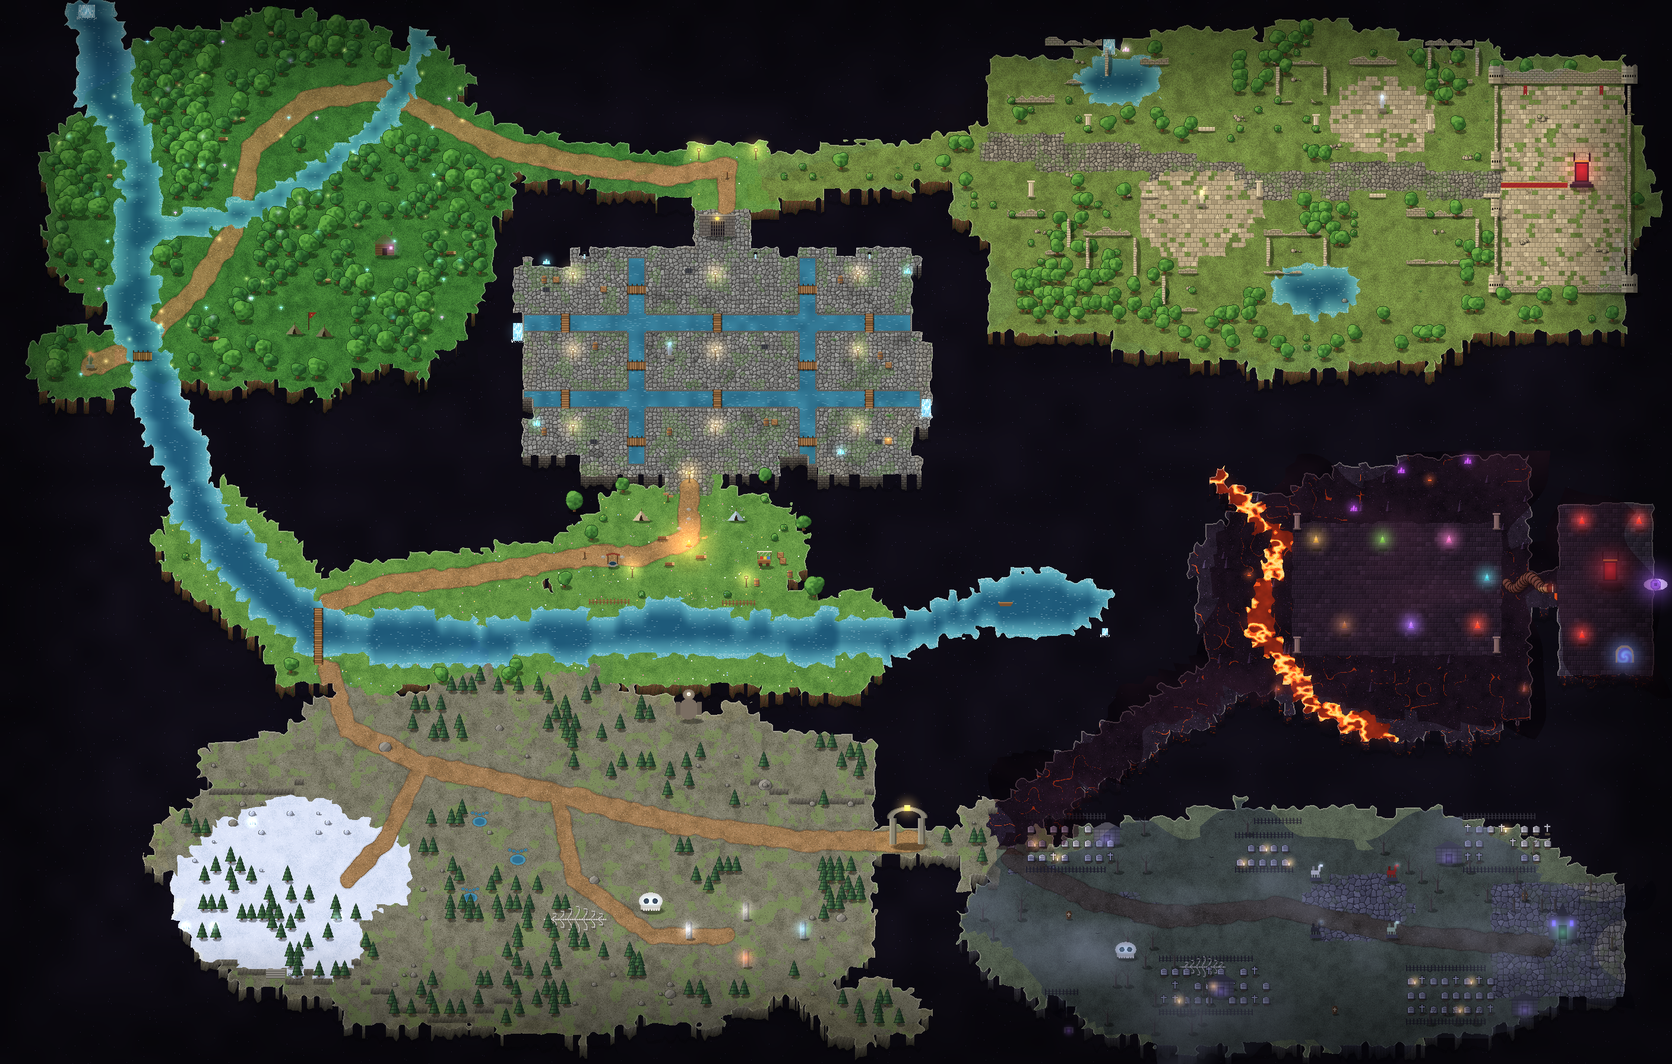
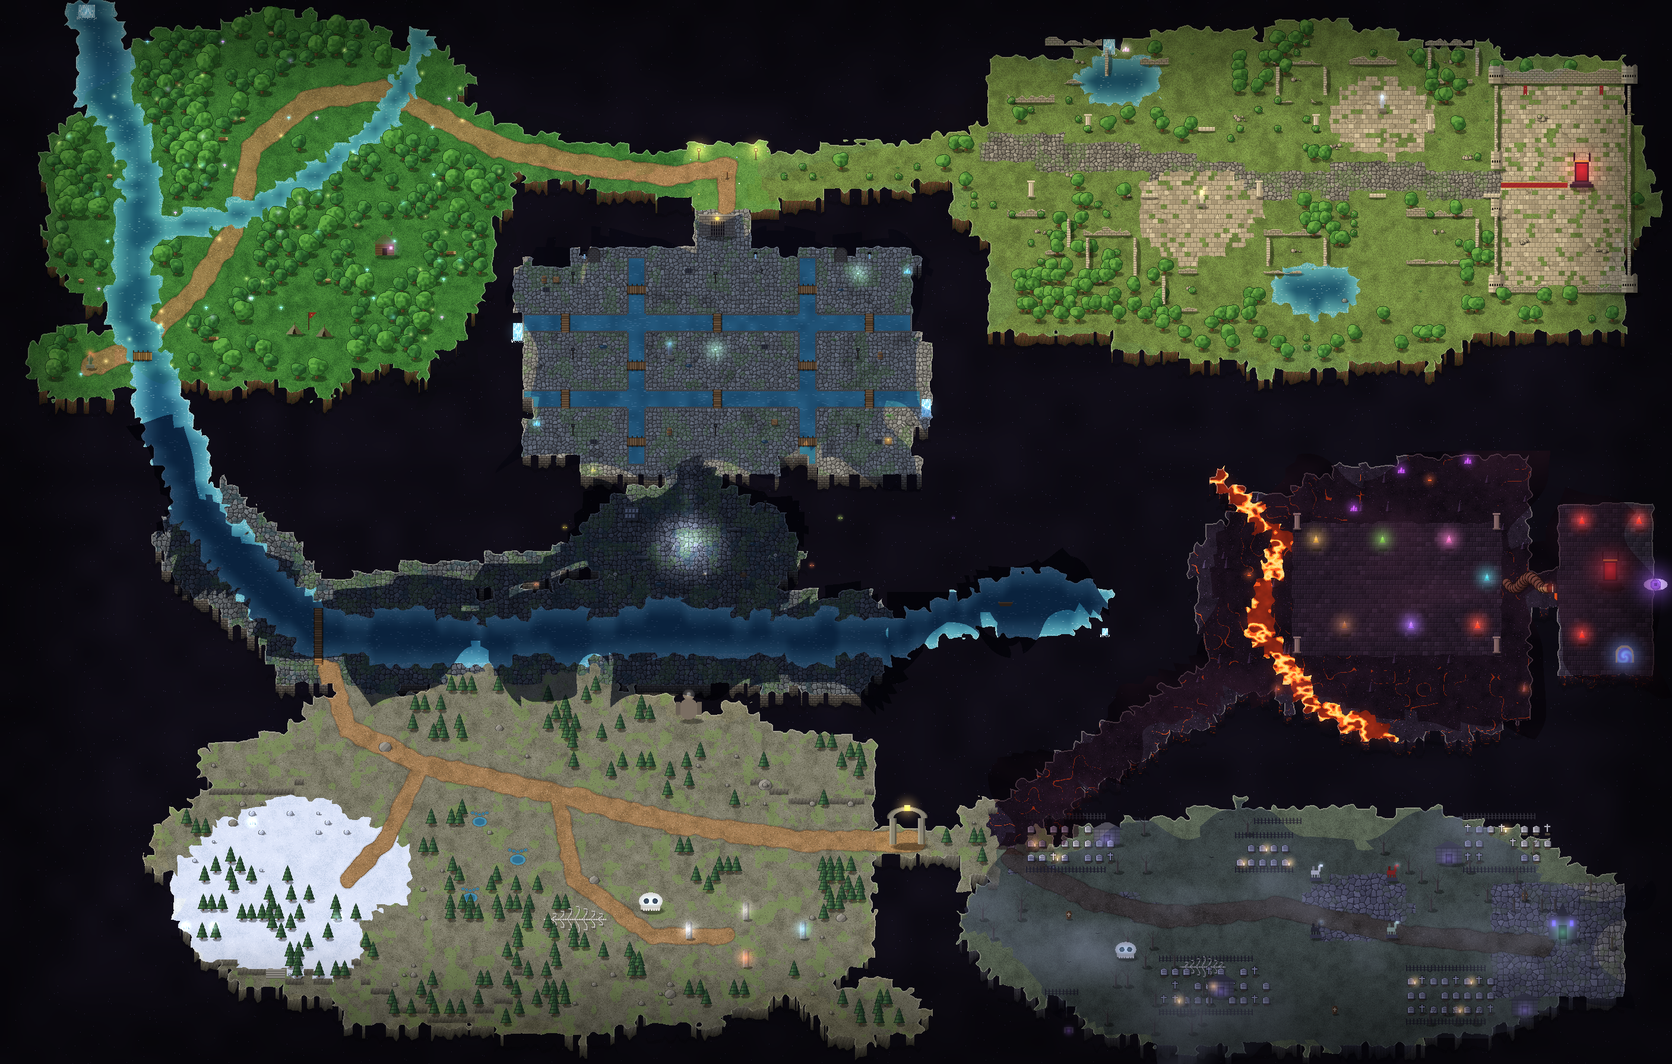
맵 시안 — 첫 공간을 무너진 천장 아래 어두운 방으로 (빛 한 줄 · 어둠 속 눈 · 두고 간 물건들), 1격 지하수로는 등이 거의 꺼진 어둡고 축축한 곳으로, 첫 공간 밑 물길 · 호수도 같은 어둠

Changed region(s): [[0.0625, 0.1875, 0.6562, 0.6562]]

diff --git a/design/map-concept/render.js b/design/map-concept/render.js
@@ -43,6 +43,7 @@ const fbm = (x, y, s = 0) => vnoise(x, y, s) * 0.55 + vnoise(x * 2.1, y * 2.1, s
 const base = new Float32Array(PW * PH * 3);
 const emis = new Uint8Array(PW * PH);              // 스스로 빛나는 픽셀 (용암) — 어두운 격에서도 안 어두워짐
 const glowBuf = new Float32Array(PW * PH * 3);
+const lightBuf = new Float32Array(PW * PH);         // 어둠을 걷어 내는 빛 (곱하는 빛 — 더하는 glow 와 달리 색이 바래지 않음)
 function put(x, y, c, a = 1) {
   x |= 0; y |= 0;
   if (x < 0 || y < 0 || x >= PW || y >= PH) return;
@@ -72,6 +73,13 @@ function shadow(cx, cy, rx, ry, f = 0.62) {
 function line(x0, y0, x1, y1, c, a = 1) {
   const n = Math.max(Math.abs(x1 - x0), Math.abs(y1 - y0), 1);
   for (let k = 0; k <= n; k++) put(Math.round(x0 + (x1 - x0) * k / n), Math.round(y0 + (y1 - y0) * k / n), c, a);
+}
+function lightUp(cx, cy, r, s) {
+  for (let y = Math.floor(cy - r); y <= cy + r; y++) for (let x = Math.floor(cx - r); x <= cx + r; x++) {
+    if (x < 0 || y < 0 || x >= PW || y >= PH) continue;
+    const d = Math.hypot(x + 0.5 - cx, (y + 0.5 - cy) * 1.25) / r;
+    if (d < 1) lightBuf[y * PW + x] += sm(1 - d) * s;
+  }
 }
 function glow(cx, cy, r, c, s = 1) {
   for (let y = Math.floor(cy - r); y <= cy + r; y++) for (let x = Math.floor(cx - r); x <= cx + r; x++) {
@@ -141,7 +149,7 @@ function trail(pts, width, b) {
 // 강 — 숲 북서쪽 폭포에서 내려와, 숲을 나서면 어두운 협곡 사이로만 흐르다가(둑 없음 — 숲과 첫 공간이 이어지지 않게)
 // 첫 공간 남쪽에서 강가 풀밭이 되고, 동쪽 끝 호수에서 어둠 속으로 떨어집니다. 호수 둘레도 어둠이라 강 양쪽이 이어지지 않습니다.
 const RIVER = [[9, 1], [11, 9], [15, 20], [13, 31], [17, 44], [22, 56], [32, 66], [50, 67], [70, 66], [88, 67], [100, 65]];
-road(RIVER.slice(5, 10), 11, GRASS, 0, 0, 1.2, 5);
+road(RIVER.slice(5, 10), 11, COBBLE, 7, 0, 1.2, 5);          // 물길 양옆은 젖은 돌둑 (첫 공간 쪽은 지하수로의 맨 밑)
 // 2격 이끼 낀 숲길 (북서)
 blob(29, 21, 25, 20, GRASS, 2, 0, 0.3, 11);
 blob(8, 38, 6, 4, GRASS, 2, 0, 0.3, 27);          // 트롤 킹의 굴 — 숲길 끝, 다리 건너 서쪽 강둑
@@ -154,10 +162,10 @@ road([[70, 18], [62, 17], [52, 15], [46, 12]], 5, GRASS, 2, 0, 0.6);
 road([[82, 18], [92, 17], [104, 15]], 5, GRASS, 3, 0, 0.6);
 // 1격 초심자의 지하수로 — 어둠 위에 떠 있는 돌 구역. 수로가 가로세로로 가르는 아홉 구역
 box(54, 26, 97, 49, COBBLE, 1, 0);
-// 첫 공간 — 모닥불 야영지
-blob(72, 57, 12, 7, GRASS, 0, 0, 0.3, 14);
+// 첫 공간 — 지하수로 맨 밑, 무너진 천장 아래의 둥근 방. 빛은 위에서 떨어지는 한 줄뿐
+blob(72, 57, 11, 7, COBBLE, 7, 0, 0.3, 14);
 // 첫 공간에서 서쪽으로 — 어둠 위 능선길을 따라 강가로, 다리 건너 4격
-road([[61, 58], [50, 60], [40, 61], [34, 63]], 5, GRASS, 0, 0, 0.7);
+road([[61, 58], [50, 60], [40, 61], [34, 63]], 3.5, COBBLE, 7, 0, 0.6);   // 어둠 위로 난 좁은 돌턱 — 물가 다리까지
 // 4격 거인의 고개 — 강 남쪽 고원. 서쪽은 눈 덮인 봉우리(더 높은 단)
 blob(56, 90, 42, 19, ROCKY, 4, 1, 0.3, 15);
 blob(30, 93, 13, 9, SNOW, 4, 2, 0.35, 16);
@@ -182,12 +190,14 @@ road(RIVER, 5, WATER, undefined, 0, 0.9, 6);
 blob(108, 63, 8, 3.5, WATER, 0, 0, 0.35, 22);
 // 숲 속 작은 시내 (강으로 합류)
 road([[44, 4], [40, 12], [33, 18], [25, 22], [16, 24]], 2.2, WATER, 2, 0, 0.5, 7);
+// 숲을 나선 뒤의 물(협곡 · 첫 공간 밑 물길 · 호수)은 땅 밑 — 첫 공간과 같은 어둠
+for (let y = 45; y < 76; y++) for (let x = 0; x < 124; x++) if (ter[idx(x, y)] === WATER) bio[idx(x, y)] = 7;
 
 // ---- 1격 수로 — 가로 둘, 세로 둘 (폭 2). 바깥 둘레는 돌 테두리 ----
 for (let x = 55; x <= 96; x++) for (const y of [33, 34, 41, 42]) paint(x, y, CANAL, 1);
 for (let y = 27; y <= 48; y++) for (const x of [66, 67, 84, 85]) paint(x, y, CANAL, 1);
 // 첫 공간 → 지하수로 남쪽 들머리 계단, 지하수로 북쪽 → 1격 보스(던전 가디언)의 수문 → 갈림목
-box(70, 49, 74, 51, COBBLE, 0, 0);
+box(70, 49, 74, 51, COBBLE, 7, 0);
 box(73, 22, 78, 26, COBBLE, 1, 0);
 // 지하수로 둘레는 군데군데 무너져 — 반듯한 네모가 아니게 (수문 · 들머리 계단 쪽은 남김)
 for (let y = 26; y <= 49; y++) for (let x = 54; x <= 97; x++) {
@@ -197,8 +207,7 @@ for (let y = 26; y <= 49; y++) for (let x = 54; x <= 97; x++) {
 }
 
 // ---- 길 (흙 — 픽셀로 그림) ----
-trail([[72, 51], [72, 56], [67, 58], [61, 58]], 2.2, 0);
-trail([[61, 58], [50, 60], [40, 61], [34, 63]], 2, 0);
+// (첫 공간 · 돌턱에는 흙길이 없음 — 젖은 돌뿐)
 trail([[76, 21], [76, 17], [70, 18]], 2, 0);
 trail([[70, 18], [62, 17], [52, 15], [46, 12], [40, 9], [32, 10], [26, 15], [24, 24], [20, 30], [14, 36], [9, 38]], 2.2, 2);
 trail([[34, 70], [36, 76], [44, 80], [58, 83], [70, 86], [84, 88], [96, 88]], 2.2, 4);
@@ -244,7 +253,8 @@ function sample(X, Y) {
   const nx = vnoise(X * 0.09, Y * 0.09, 91) - 0.5, ny = vnoise(X * 0.09, Y * 0.09, 92) - 0.5;
   const ux = Math.floor((X + nx * 14) / T), uy = Math.floor((Y + ny * 14) / T), t1 = T_(ux, uy);
   if (CRISP.has(t1)) return { t: t0, tx, ty };
-  if (BUILT.has(t0) || BUILT.has(t1)) {                        // 깐 바닥의 가장자리는 덜 흔들어 반듯함을 남김
+  const cave = bio[idx(tx, ty)] === 7;                         // 첫 공간 둘레는 동굴처럼 들쭉날쭉
+  if (!cave && (BUILT.has(t0) || BUILT.has(t1))) {             // 깐 바닥의 가장자리는 덜 흔들어 반듯함을 남김
     const vx = Math.floor((X + nx * 6) / T), vy = Math.floor((Y + ny * 6) / T), t2 = T_(vx, vy);
     return CRISP.has(t2) ? { t: t0, tx, ty } : { t: t2, tx: vx, ty: vy };
   }
@@ -335,8 +345,9 @@ function texture(t, b, X, Y) {
     case ROCKY: { let c = shadeOf(C.rocky, v); if (fbm(X * 0.05, Y * 0.05, 8) > 0.62) c = mix(c, hex('#7f9a52'), 0.6); if (hash(X, Y, 9) < 0.02) c = hex('#55513f'); return c; }
     case SNOW: { let c = shadeOf(C.snow, v * 0.7 + 0.3); if (hash(X, Y, 10) < 0.004) c = [255, 255, 255]; return c; }
     case COBBLE: case CANAL: {
-      // 둥근 자갈돌 — 크기도 모양도 제각각, 물가 가까이는 젖어 짙게, 군데군데 이끼
-      let c = stones(X, Y, 7, 11, C.cobble, '#4e4b46');
+      // 둥근 자갈돌 — 크기도 모양도 제각각, 물가 가까이는 젖어 짙게, 군데군데 이끼 (첫 공간은 더 짙고 축축)
+      let c = b === 7 ? stones(X, Y, 8, 12, ['#5e6266', '#4e5256', '#70757a', '#3a3d40'], '#2a2c30') : stones(X, Y, 7, 11, C.cobble, '#4e4b46');
+      if (b === 7 && fbm(X * 0.05, Y * 0.05, 17) > 0.62) c = mix(c, hex('#2e4a52'), 0.5);   // 고인 물 얼룩
       if (fbm(X * 0.04, Y * 0.04, 14) > 0.58 && hash(X, Y, 15) < 0.6) c = mix(c, hex('#5f8a42'), 0.5);
       if (fbm(X * 0.03, Y * 0.03, 16) < 0.3) c = mul(c, 0.86);
       return c;
@@ -616,14 +627,6 @@ function lantern(px, py, col = '#ffc864') {
     glow(px + 1, py - 15, 34, mul(hex(col), 0.55));
   });
 }
-function campfire(px, py) {
-  add(py, () => {
-    for (let k = 0; k < 8; k++) { const a = k / 8 * Math.PI * 2; rect(px + Math.cos(a) * 7 - 1, py + Math.sin(a) * 4 - 1, 3, 2, hex('#7a746a')); }
-    rect(px - 5, py - 1, 10, 2, hex('#5a3a22')); rect(px - 1, py - 4, 2, 6, hex('#5a3a22'));
-    for (let j = 0; j < 10; j++) for (let i = -4; i <= 4; i++) if (Math.abs(i) < 4 - j * 0.35 && hash(i, j, 56) < 0.85) put(px + i, py - 2 - j, hex(j < 3 ? '#ff6a1a' : j < 6 ? '#ffb030' : '#ffe890'));
-    glow(px, py - 4, 70, [255, 150, 60], 0.75);
-  });
-}
 function tent(px, py, col) {
   add(py, () => {
     shadow(px + 4, py + 2, 16, 4);
@@ -638,24 +641,6 @@ function sign(px, py) {
     rect(px, py - 12, 2, 12, hex('#5a3c24'));
     rect(px - 7, py - 14, 9, 4, hex('#a8784a')); rect(px + 2, py - 10, 8, 4, hex('#a8784a'));
     rect(px - 7, py - 14, 9, 1, hex('#c99a64')); rect(px + 2, py - 10, 8, 1, hex('#c99a64'));
-  });
-}
-function cart(px, py) {
-  add(py, () => {
-    shadow(px + 3, py + 2, 14, 4);
-    rect(px - 12, py - 12, 22, 8, hex('#8a5a32')); rect(px - 12, py - 12, 22, 2, hex('#b07a46'));
-    for (const [cx, col] of [[-8, '#c8402a'], [-2, '#e8c040'], [4, '#4a7ac8']]) rect(px + cx, py - 17, 5, 5, hex(col));
-    for (let j = 0; j < 8; j++) for (let i = -13; i <= 11; i++) if (j < 2 || (i + j) % 7 === 0) put(px + i, py - 26 + j, hex(j < 2 ? '#e8dcc0' : '#d8ccb0'));
-    rect(px - 12, py - 24, 1, 12, hex('#5a3a22')); rect(px + 10, py - 24, 1, 12, hex('#5a3a22'));
-    ellipse(px - 7, py - 3, 3.5, 3.5, hex('#4a3020')); ellipse(px + 5, py - 3, 3.5, 3.5, hex('#4a3020'));
-  });
-}
-function well(px, py) {
-  add(py, () => {
-    shadow(px + 2, py + 2, 10, 4);
-    ellipse(px, py - 4, 9, 5, hex('#8a867c')); ellipse(px, py - 5, 6, 3, hex('#1e3a4a'));
-    rect(px - 9, py - 20, 2, 16, hex('#5a3c24')); rect(px + 7, py - 20, 2, 16, hex('#5a3c24'));
-    for (let i = -11; i <= 11; i++) rect(px + i, py - 23 + Math.abs(i) * 0.25, 1, 3, hex('#8a3a2a'));
   });
 }
 function bridge(tx0, ty0, len, vertical) {
@@ -964,17 +949,6 @@ function fern(px, py, col = '#5a9a48') {
 function rubble(px, py, n = 5, col = '#b0a690') {
   for (let k = 0; k < n; k++) rock(px - 8 + hash(k, px, 66) * 16, py - 3 + hash(k, py, 66) * 6, 2 + hash(k, 1, 66) * 2.5, col);
 }
-function woodFence(px0, py, n, vertical) {
-  add(py + (vertical ? n * 6 : 0), () => {
-    for (let k = 0; k < n; k++) {
-      const x = vertical ? px0 : px0 + k * 6, y = vertical ? py + k * 6 : py;
-      rect(x, y - 9, 2, 9, hex('#7a5232')); put(x, y - 10, hex('#9a6a3e'));
-    }
-    if (!vertical) { rect(px0, py - 7, n * 6 - 4, 1, hex('#9a6a3e')); rect(px0, py - 4, n * 6 - 4, 1, hex('#7a5232')); }
-    else rect(px0, py - 7, 2, n * 6, hex('#9a6a3e'));
-  });
-}
-function steppingStone(px, py) { add(py - 6, () => { ellipse(px, py, 4, 2.6, hex('#9a958a')); ellipse(px - 1, py - 1, 2.5, 1.4, hex('#b4afa4')); }); }
 function spout(px, py, h) {
   // 벽 구멍에서 수로로 떨어지는 물
   add(py, () => { rect(px - 3, py - h - 4, 7, 5, hex('#3a3632')); rect(px - 2, py - h - 3, 5, 3, hex('#141214')); for (let j = 0; j < h; j++) for (let i = -1; i <= 1; i++) put(px + i, py - h + j, hash(i, j, 67) < 0.4 ? [230, 250, 255] : hex('#8ad0e0')); });
@@ -991,10 +965,6 @@ function vent(px, py) {
     for (let k = 0; k < 18; k++) put(px + Math.sin(k * 0.9) * (2 + k * 0.25), py - 3 - k * 1.3, [140, 120, 130], 0.5 - k * 0.02);
     glow(px, py - 2, 18, [255, 110, 50], 0.5);
   });
-}
-function cat(px, py) {
-  // 모닥불 곁에서 자는 고양이 — 첫 공간의 친근함
-  add(py, () => { ellipse(px, py - 2, 4, 2.4, hex('#e8a050')); ellipse(px + 3.5, py - 3.5, 2, 1.8, hex('#e8a050')); put(px + 3, py - 5.5, hex('#e8a050')); put(px + 5, py - 5.5, hex('#e8a050')); line(px - 4, py - 1, px - 6, py - 3, hex('#c88040')); put(px + 3, py - 4, hex('#4a2a18')); });
 }
 function ruinWallV(tx, ty, len) {
   // 세로로 선 성벽 조각 (위에서 내려다본 두께)
@@ -1067,37 +1037,104 @@ function orcCamp(tx, ty) {
   tent(x - 24, y + 6, '#7a6a4a'); tent(x + 26, y + 10, '#6a5a3e');
 }
 
-// ---------- 놓기 ----------
-// 첫 공간 — 모닥불 · 천막 · 상인 수레 · 우물 · 표지판 · 등불
-campfire(...P(72, 57)); keepClear(72, 57, 4);
-tent(...P(67, 54, 8, 12), '#c8b088'); tent(...P(77, 54, 8, 12), '#a8c0c8');
-cart(...P(80, 59, 8, 10)); well(...P(64, 59, 8, 10)); sign(...P(70, 52, 4, 12)); sign(...P(61, 58, 8, 12));
-for (const [x, y] of [[66, 60], [78, 61], [72, 50]]) lantern(...P(x, y, 8, 12));
-for (const [x, y, c] of [[63, 54, '#f4d35e'], [80, 52, '#ee8fb0'], [67, 62, '#ffffff'], [76, 62, '#9fc5ff']]) bush(x, y, 8, 12, x * y, c);
-// 모닥불 둘레 통나무 의자 · 자는 고양이 · 상인 수레 곁 짐 · 강가 울타리 · 디딤돌
-log(...P(69, 56, 4, 12), 16); log(...P(73, 58, 4, 12), 16); log(...P(70, 59, 0, 8), 14);
-cat(...P(74, 56, 2, 12));
-crate(...P(82, 58, 2, 12)); crate(...P(82, 59, 6, 6)); barrel(...P(83, 60, 2, 12)); barrel(...P(79, 61, 10, 10));
-woodFence(...P(62, 63, 0, 10), 12); woodFence(...P(76, 63, 0, 12), 10);
-for (const [x, y] of [[72, 53], [72, 54], [71, 55], [65, 58], [63, 58]]) steppingStone(...P(x, y, 8, 10));
-for (let k = 0; k < 18; k++) { const x = 60 + hash(k, 1, 77) * 24, y = 51 + hash(k, 2, 77) * 12; if (ter[idx(x | 0, y | 0)] === GRASS) add(y * T, () => { for (let f = 0; f < 6; f++) put(x * T + hash(k, f, 78) * 10, y * T + hash(f, k, 78) * 6, hex(['#f4d35e', '#ee8fb0', '#ffffff', '#c890ff'][(k + f) % 4])); }); }
-keepClear(72, 56, 9);
-for (const [x, y, k] of [[60, 53, 'big'], [84, 55, 'round'], [59, 61, 'round'], [85, 62, 'big'], [65, 51, 'round'], [80, 50, 'round'], [62, 56, 'round']]) tree(x, y, k, x * 13 + y);
+function lightShaft(px, py) {
+  // 무너진 천장 구멍에서 떨어지는 빛 한 줄 — 바닥에 둥글게 고이고, 빛 속에 먼지가 떠 있음
+  lightUp(px, py, 92, 1.15);
+  for (let k = 1; k <= 5; k++) lightUp(px, py - k * 26, 34 - k * 3, 0.32 - k * 0.04);   // 위로 올라가며 흐려지는 빛기둥
+  glow(px, py - 6, 46, [160, 180, 215], 0.32);
+  add(py + 40, () => { for (let k = 0; k < 26; k++) put(px - 34 + hash(k, 1, 98) * 68, py - 40 + hash(k, 2, 98) * 70, [230, 240, 255], 0.55); });
+}
+function slab(px, py, w, h, tilt) {
+  // 무너져 내린 천장 돌판
+  add(py, () => {
+    shadow(px + 3, py + 2, w * 0.6, 3);
+    for (let j = 0; j < h; j++) for (let i = 0; i < w; i++) put(px - w / 2 + i + j * tilt, py - j, hex(j === h - 1 ? '#8a8e92' : i === 0 ? '#3a3d40' : '#5e6266'));
+  });
+}
+function tallyStone(px, py) {
+  // 벽에 기대 선 돌 — 긁어서 센 줄들 (다섯씩 묶음)
+  add(py, () => {
+    shadow(px + 4, py + 2, 14, 3);
+    rect(px - 13, py - 22, 26, 22, hex('#4e5256')); rect(px - 13, py - 22, 26, 2, hex('#70757a')); rect(px + 11, py - 22, 2, 22, hex('#2a2c30'));
+    for (let g = 0; g < 7; g++) {
+      const gx = px - 11 + (g % 4) * 6, gy = py - 19 + Math.floor(g / 4) * 9;
+      for (let k = 0; k < 4; k++) rect(gx + k, gy, 1, 6, hex('#b8bcc0'));
+      if (g < 6) line(gx - 1, gy + 5, gx + 4, gy, hex('#b8bcc0'));
+    }
+  });
+}
+function deadLantern(px, py) {
+  // 꺼진 등
+  add(py, () => { shadow(px + 1, py + 1, 3, 1.5); rect(px, py - 14, 2, 14, hex('#2a221c')); rect(px - 2, py - 18, 6, 5, hex('#1e1814')); rect(px - 1, py - 17, 4, 3, hex('#3a4044')); put(px + 2, py - 17, hex('#6a7074')); });
+}
+function oddLantern(px, py) { lantern(px, py, '#a8ffd0'); }   // 켠 사람이 없는데 켜져 있는 등 — 차가운 빛
+function bag(px, py) {
+  add(py, () => { shadow(px + 2, py + 1, 6, 2); ellipse(px, py - 4, 6, 4.5, hex('#6a5038')); ellipse(px - 1, py - 6, 4, 2, hex('#86684a')); rect(px - 5, py - 8, 3, 3, hex('#4a3626')); line(px + 3, py - 7, px + 7, py - 2, hex('#4a3626')); });
+}
+function nametag(px, py) {
+  // 녹슨 명찰 — 아주 작게 반짝
+  add(py - 2, () => { rect(px - 3, py - 2, 6, 3, hex('#8a7a5a')); rect(px - 3, py - 2, 6, 1, hex('#b0a07a')); rect(px - 2, py - 1, 4, 1, hex('#4a3e2e')); put(px + 2, py - 2, [255, 250, 220]); glow(px + 2, py - 2, 5, [255, 240, 200], 0.5); });
+}
+function bones(px, py) {
+  add(py, () => {
+    for (const [dx, dy, l, a] of [[0, 0, 9, 0.3], [-5, 3, 7, -0.8], [6, 2, 6, 1.2], [-2, -3, 5, 2]]) for (let k = 0; k < l; k++) put(px + dx + Math.cos(a) * k, py + dy + Math.sin(a) * k, hex(k === 0 || k === l - 1 ? '#e8e2d0' : '#c8c0aa'));
+    ellipse(px + 8, py - 3, 3.2, 2.8, hex('#d8d0bc')); put(px + 7, py - 3, hex('#2a2420')); put(px + 9, py - 3, hex('#2a2420'));
+  });
+}
+function eyesInDark(px, py, col) {
+  // 어둠 속에서 이쪽을 보는 눈 둘
+  add(py + 60, () => { const c = hex(col); put(px, py, c); put(px + 1, py, c); put(px + 5, py, c); put(px + 6, py, c); glow(px + 3, py, 9, mul(c, 0.5)); });
+}
+function sealedDoor(px, py) {
+  // 벽돌로 막아 버린 옛 문
+  add(py, () => {
+    for (let a = Math.PI; a <= Math.PI * 2; a += 0.03) for (let r = 9; r <= 11; r++) put(px + Math.cos(a) * r, py - 14 + Math.sin(a) * r, hex('#3e3833'));
+    rect(px - 11, py - 14, 2, 14, hex('#3e3833')); rect(px + 9, py - 14, 2, 14, hex('#3e3833'));
+    for (let j = -24; j < 0; j++) for (let i = -9; i < 9; i++) {
+      if (j < -14 && i * i + (j + 14) ** 2 > 81) continue;
+      const row = Math.floor(j / 3);
+      put(px + i, py + j, hex(((i + 20 + (row % 2) * 3) % 6 === 0 || j % 3 === 0) ? '#3e3833' : '#5e5750'));
+    }
+  });
+}
+function puddle(px, py, rx) { add(py - 300, () => { ellipse(px, py, rx, rx * 0.5, hex('#2e4a58')); ellipse(px - rx * 0.3, py - 1, rx * 0.4, rx * 0.15, hex('#5a8090')); }); }
+function drip(px, py) { add(py, () => { put(px, py, hex('#9ad4e4')); put(px, py - 3, hex('#6ab4cc'), 0.6); }); }
 
-// 1격 지하수로 — 아홉 구역의 등불 · 하수 쇠창살 · 이끼 낀 돌 · 작은 다리 (수로를 건너는 곳)
-for (const by of [29, 37, 45]) for (const bx of [60, 75, 90]) lantern(...P(bx, by, 4, 12), '#ffd890');
+// ---------- 놓기 ----------
+// 첫 공간 — 무너진 천장 구멍 아래. 빛 한 줄, 떨어져 내린 돌판, 그리고 누군가 두고 간 것들
+lightShaft(...P(72, 57)); keepClear(72, 57, 9);
+rubble(...P(70, 55), 7, '#70757a'); rubble(...P(75, 59), 6, '#70757a');
+slab(...P(67, 58, 8, 12), 22, 5, 0.2); slab(...P(77, 55, 4, 12), 18, 4, -0.25);
+tallyStone(...P(66, 54, 8, 12));
+deadLantern(...P(66, 61, 8, 12)); deadLantern(...P(80, 53, 8, 12));
+bag(...P(78, 60, 4, 12)); nametag(...P(74, 60, 2, 8));
+bones(...P(64, 60, 4, 10)); bones(...P(81, 58, 2, 10));
+puddle(...P(69, 61, 8, 8), 9); puddle(...P(79, 57, 4, 4), 6);
+for (const [x, y] of [[61, 56], [83, 56], [70, 51], [62, 61]]) fern(...P(x, y, 8, 12), '#3e5a52');
+for (let k = 0; k < 14; k++) drip(...P(61 + hash(k, 1, 99) * 22 | 0, 51 + hash(k, 2, 99) * 12 | 0, 8, 8));
+// 빛 밖 어둠 속 — 이쪽을 보는 눈들, 그리고 아주 멀리 작은 보랏빛 한 점
+for (const [x, y, c] of [[59, 55, '#ffd84a'], [85, 59, '#ff7a4a'], [62, 49, '#ffd84a'], [88, 54, '#c8ff6a'], [56, 61, '#ff7a4a']]) eyesInDark(...P(x, y, 4, 8), c);
+add(0, () => { const [x, y] = P(100, 54, 4, 8); put(x, y, hex('#b88aff')); put(x + 3, y, hex('#b88aff')); glow(x + 1.5, y, 6, [150, 100, 230], 0.35); });
+
+// 1격 지하수로 — 끝난 도시 밑의 수로. 등은 거의 꺼졌고, 켜진 두엇은 차가운 빛 · 쇠창살 · 막아 버린 문 · 작은 다리
+for (const [x, y] of [[60, 29], [90, 37], [60, 45], [75, 45], [90, 45], [60, 37], [75, 29]]) deadLantern(...P(x, y, 4, 12));
+for (const [x, y] of [[75, 37], [90, 29]]) oddLantern(...P(x, y, 4, 12));
 for (const [x, y] of [[57, 30], [80, 36], [92, 46], [62, 46], [72, 28]]) add(y * T + 10, () => { const [px, py] = P(x, y, 2, 4); rect(px, py, 12, 8, hex('#2a2a2e')); for (let i = 1; i < 12; i += 3) rect(px + i, py, 1, 8, hex('#5a5a60')); });
 for (const [x, y, v] of [[59, 33, true], [75, 33, true], [91, 33, true], [59, 41, true], [75, 41, true], [91, 41, true]]) bridge(x, y, 2, v);
 for (const [x, y] of [[66, 30], [84, 30], [66, 38], [84, 38], [66, 46], [84, 46]]) bridge(x, y, 2, false);
 gate(75, 24);                                                                 // 던전 가디언의 수문
-for (const [x, y] of [[56, 44], [95, 28], [88, 47], [57, 27]]) crystal(...P(x, y, 8, 12), '#7ae0f0', 9);
-statue(...P(70, 37, 8, 12), '#8a9298', '#7ae0f0');                            // 고블린 족장이 지키는 석상 (정예 자리)
+for (const [x, y] of [[62, 27], [88, 27]]) sealedDoor(...P(x, y, 8, 10));
+for (const [x, y] of [[56, 44], [95, 28]]) crystal(...P(x, y, 8, 12), '#7ae0f0', 8);
+statue(...P(70, 37, 8, 12), '#6e767c', '#7ae0f0');                            // 고블린 족장이 지키는 석상 (정예 자리)
 // 미믹 — 수로 구석에 놓인, 너무 반짝이는 보물상자 (정예 자리)
 add(46 * T + 12, () => { const [x, y] = P(93, 46, 8, 12); shadow(x + 2, y + 1, 7, 2); rect(x - 6, y - 8, 12, 8, hex('#8a5a32')); rect(x - 6, y - 11, 12, 4, hex('#a8784a')); rect(x - 6, y - 8, 12, 1, hex('#c8a040')); rect(x - 1, y - 9, 2, 3, hex('#f0d070')); glow(x, y - 6, 16, [255, 210, 110], 0.5); });
-// 통 · 상자 · 고사리 · 무너진 돌 — 사람이 쓰던 곳
-for (const [x, y] of [[57, 29], [62, 36], [92, 37], [88, 29], [70, 45], [80, 44], [57, 45]]) barrel(...P(x, y, 4 + (x % 3) * 3, 12));
-for (const [x, y] of [[58, 29], [93, 38], [81, 44], [63, 30]]) crate(...P(x, y, 8, 12));
+// 썩은 통 · 상자 · 무너진 계단 · 고인 물 · 고사리
+for (const [x, y] of [[57, 29], [92, 37], [70, 45]]) barrel(...P(x, y, 4 + (x % 3) * 3, 12));
+for (const [x, y] of [[58, 29], [81, 44]]) crate(...P(x, y, 8, 12));
+for (const [x, y] of [[56, 38], [95, 44], [79, 28]]) rubble(...P(x, y), 6, '#7a7770');
+for (const [x, y, r] of [[63, 36, 7], [80, 46, 6], [88, 30, 5], [72, 38, 6]]) puddle(...P(x, y, 8, 8), r);
 for (let k = 0; k < 40; k++) { const x = 55 + hash(k, 1, 79) * 42 | 0, y = 27 + hash(k, 2, 79) * 22 | 0; if (ter[idx(x, y)] === COBBLE && [CANAL, VOID].some(t => [T_(x - 1, y), T_(x + 1, y), T_(x, y - 1), T_(x, y + 1)].includes(t))) fern(...P(x, y, 2 + hash(k, 3, 79) * 12 | 0, 14)); }
+for (let k = 0; k < 30; k++) drip(...P(55 + hash(k, 1, 100) * 42 | 0, 27 + hash(k, 2, 100) * 22 | 0, 8, 8));
 // 벽 구멍에서 떨어지는 물, 수로 끝에서 어둠으로 쏟아지는 물
 for (const x of [61, 79, 91]) spout(...P(x, 27, 8, 4), 8);
 for (const [x, y] of [[54, 33], [97, 41]]) waterfall(...P(x, y + 2, 0, 14), 16, 30);
@@ -1222,13 +1259,14 @@ for (const o of objs) o.fn();
 //  빛 · 안개 · 마무리
 // ============================================================
 // 격마다 바탕 빛 — 남동쪽(5 · 6격)으로 갈수록 어둡고 차갑거나 붉게
-const AMB = [[1, 1, 1], [0.96, 0.98, 1.02], [0.9, 0.98, 0.9], [1.02, 0.98, 0.9], [0.95, 0.96, 1.02], [0.66, 0.68, 0.82], [0.62, 0.5, 0.58]];
+const AMB = [[1, 1, 1], [0.6, 0.66, 0.8], [0.9, 0.98, 0.9], [1.02, 0.98, 0.9], [0.95, 0.96, 1.02], [0.66, 0.68, 0.82], [0.62, 0.5, 0.58], [0.34, 0.38, 0.5]];
 const out = new Uint8Array(PW * PH * 4);
 for (let Y = 0; Y < PH; Y++) for (let X = 0; X < PW; X++) {
   const tx = Math.min(W - 1, Math.max(0, Math.floor((X + (vnoise(X * 0.01, Y * 0.01, 90) - 0.5) * 120) / T)));
   const ty = Math.min(H - 1, Math.max(0, Math.floor((Y + (vnoise(X * 0.01, Y * 0.01, 93) - 0.5) * 120) / T)));
   const b = ter[idx(tx, ty)] === VOID ? 0 : bio[idx(tx, ty)];
-  const a = emis[Y * PW + X] ? [1, 1, 1] : AMB[b];
+  const L = lightBuf[Y * PW + X], A = AMB[b];
+  const a = emis[Y * PW + X] ? [1, 1, 1] : [A[0] + L, A[1] + L, A[2] + L * 1.05];   // 비추는 빛은 그 자리의 어둠을 걷어 냄
   const i = (Y * PW + X) * 3;
   let r = base[i] * a[0], g = base[i + 1] * a[1], bl = base[i + 2] * a[2];
   // 안개 — 5격 · 6격, 그리고 어둠과 맞닿은 곳 가까이
